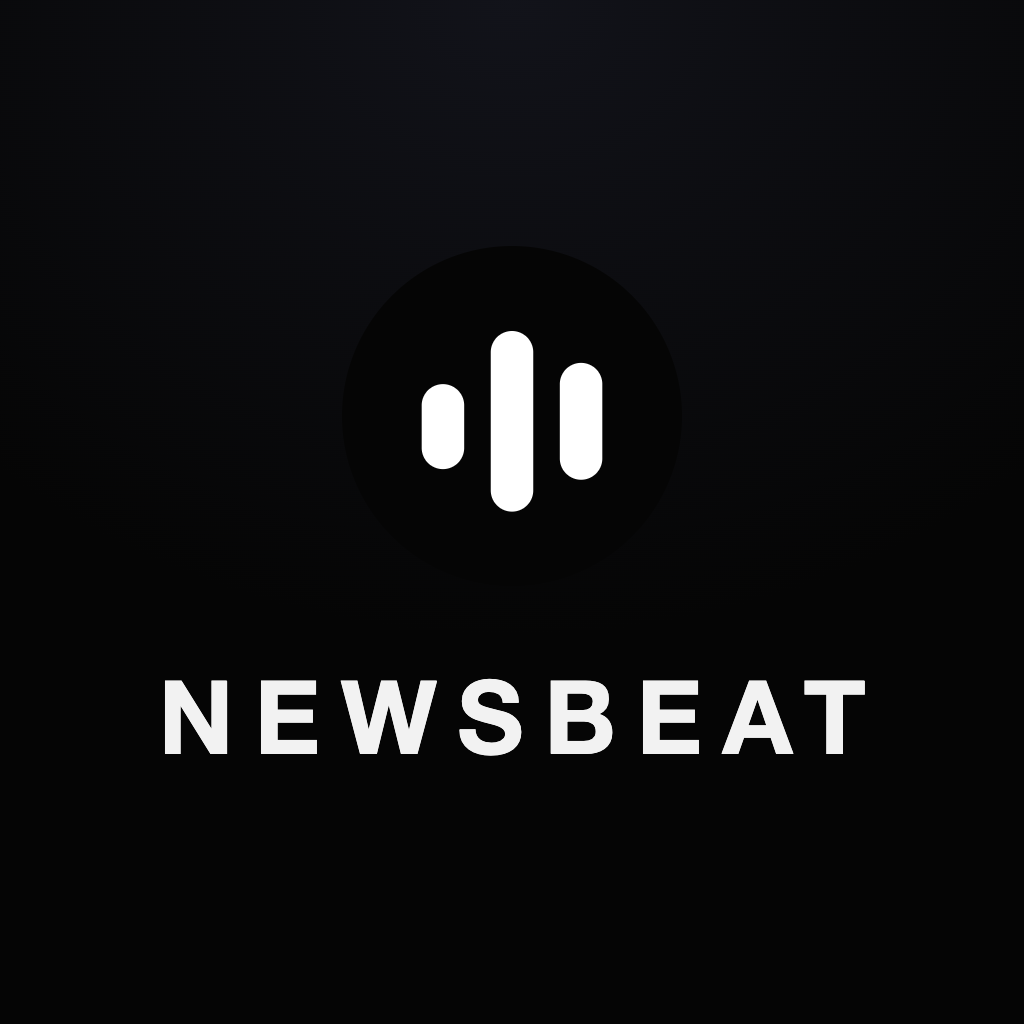
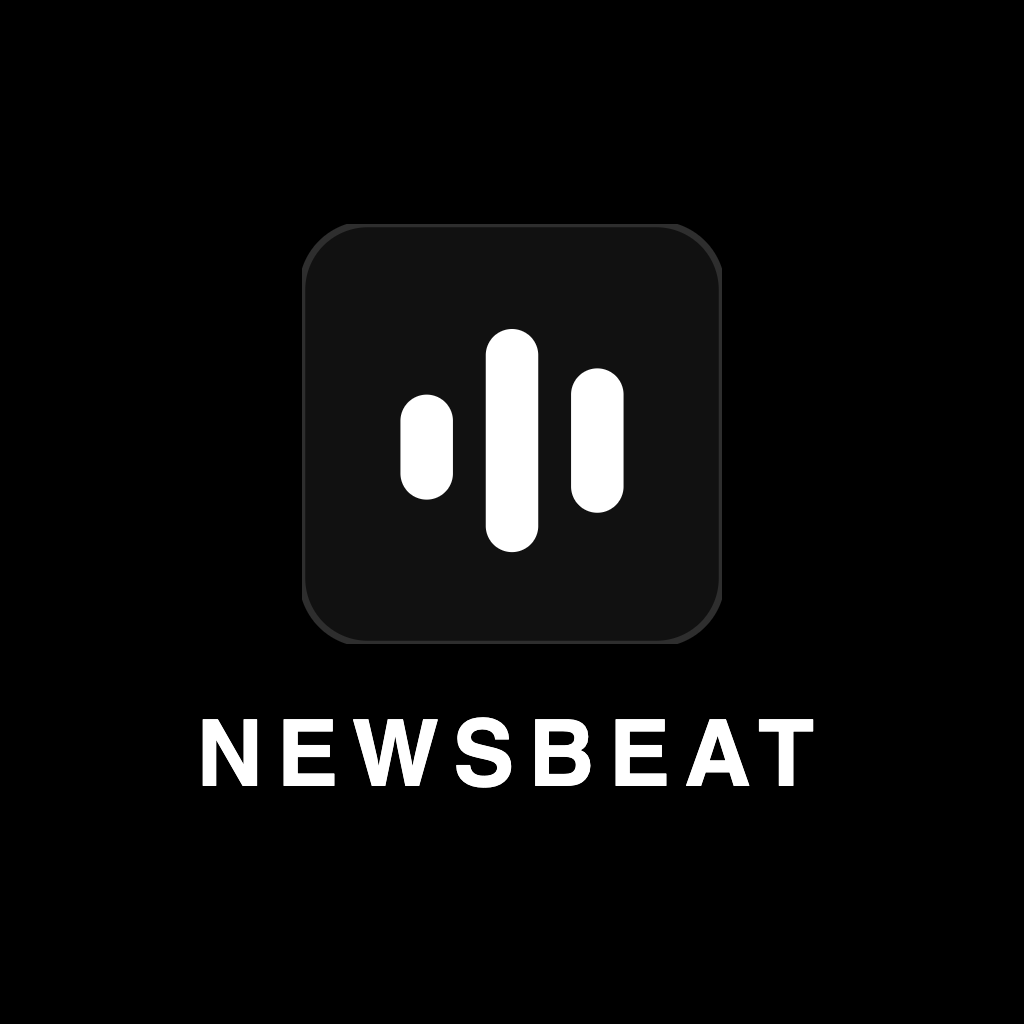
brand: the beat mark, not the sheep
Restores the original NewsBeat logo — three bars in a rounded tile, a beat read as an
equalizer — and removes the mascot from every surface it had spread to.

Recovered from git (b51172a) rather than redrawn, so the geometry is the one that shipped
before the rename: rect 15/28/41 wide, heights 16/34/22, radius 4, on a 64-unit tile.

Changed:
- brand-mark.tsx, which the nav, the crypto research core, the OG image, the apple icon and
  the token badge all import — one file, six surfaces.
- icon.svg, apple-icon.png and public/newsbeat.svg, all the same geometry.
- brand/*.png regenerated: mark, lockup, OG and square, rendered from the same SVG.

Removed with it: the mascot's nod animation, which rotated around 52%/75% for a face and
looked broken on a tile, and two 'black sheep' labels in the live board that the earlier
prose pass missed because they were lowercase.

diff --git a/apps/web/components/site/brand-mark.tsx b/apps/web/components/site/brand-mark.tsx
@@ -1,30 +1,37 @@
-/** Original vector mascot: black wool, a raised eyebrow and a knowing smile. */
-export default function BrandMark({ className, size = 64, variant = "portrait" }: { className?: string; size?: number; variant?: "portrait" | "mascot" }) {
-  const full = variant === "mascot";
+/**
+ * The NewsBeat mark: three bars in a rounded tile — a beat, read as an equalizer.
+ *
+ * This is the original mark, restored. It replaced a sheep mascot during a rename that
+ * was reverted, and the mascot-free version is better on every surface: it is legible at
+ * 16px in a browser tab, it does not need a light or dark variant because the tile
+ * supplies its own contrast, and it reads as a beat rather than as a character.
+ *
+ * Flat fills only, no strokes, so it renders identically at 16px and at 1024px.
+ */
+export default function BrandMark({
+  className,
+  size = 64,
+}: {
+  className?: string;
+  size?: number;
+  /** Accepted for callers that still pass it; the mark has a single form now. */
+  variant?: "portrait" | "mascot";
+}) {
   return (
-    <svg className={className} width={size} height={full ? size * 460 / 320 : size} viewBox={full ? "0 0 320 460" : "0 0 320 280"} fill="none" aria-hidden="true" focusable="false">
-      {full ? (<g stroke="#f3f2ec" strokeWidth="5" strokeLinejoin="round">
-  <path d="m107 373-7 55-25 9c-8 3-7 13 2 13h61l2-74m46-1 2 74h60c10 0 10-10 2-13l-26-9-9-53" fill="#151714" />
-  <path d="M80 247c-23 0-38 24-28 44-22 13-22 45 1 57-9 25 8 49 33 49 9 27 39 36 59 19 19 24 49 19 61-4 27 10 52-9 51-35 27-5 38-34 21-55 16-22 3-51-23-56-6-25-30-40-53-29Z" fill="#101210" />
-  <path d="M91 340q-6 18 7 28m119-24q10 18-4 31m-69 3q13 11 25 1" fill="none" stroke="#343832" strokeWidth="6" strokeLinecap="round" />
-</g>) : null}
-      <g stroke="#f3f2ec" strokeWidth="5" strokeLinejoin="round" strokeLinecap="round">
-  <path d="M83 114C55 107 23 134 16 164c-6 25 18 34 40 23l35-29" fill="#111312" />
-  <path d="M238 111c30-1 59 24 66 52 7 26-14 37-37 25l-35-29" fill="#111312" />
-  <path d="M38 163q13-23 33-26m210 28q-12-24-29-28" fill="none" stroke="#575b56" strokeWidth="9" />
-  <path d="M91 100c-9 30-12 77 8 108 16 25 41 42 65 42 28 0 57-21 70-48 15-32 9-72-3-103Z" fill="#292c28" />
-  <path d="M64 109c-23-11-23-42 0-54 0-22 20-40 42-34 12-23 43-25 60-7 24-17 54-6 61 17 24-2 42 16 40 38 23 16 17 48-7 55-8 22-36 28-53 13-16 18-43 17-58 2-20 17-46 11-55-8-14 6-28-3-30-22Z" fill="#101210" />
-  <path d="M102 45c8-10 21-10 29-3m58 0c8-3 18 1 21 8" fill="none" stroke="#343832" strokeWidth="6" />
-</g>
-<ellipse cx="132" cy="166" rx="26" ry="30" fill="#f8f7f0" />
-<ellipse cx="193" cy="160" rx="28" ry="31" fill="#f8f7f0" />
-<ellipse cx="143" cy="165" rx="10" ry="13" fill="#111312" />
-<ellipse cx="204" cy="159" rx="10" ry="13" fill="#111312" />
-<circle cx="146" cy="161" r="3" fill="#f8f7f0" />
-<circle cx="207" cy="155" r="3" fill="#f8f7f0" />
-<path d="M108 143q23-9 46 3" fill="none" stroke="#292c28" strokeWidth="10" strokeLinecap="round" />
-<path d="M177 119q17-9 31-1" fill="none" stroke="#f3f2ec" strokeWidth="5" strokeLinecap="round" />
-<path d="M145 211q23 19 48-8m-3 0 10-1" fill="none" stroke="#f3f2ec" strokeWidth="5" strokeLinecap="round" />
+    <svg
+      className={className}
+      width={size}
+      height={size}
+      viewBox="0 0 64 64"
+      aria-hidden="true"
+      focusable="false"
+    >
+      <rect width="64" height="64" rx="10" fill="#000000" />
+      <g fill="#ffffff">
+        <rect x="15" y="26" width="8" height="16" rx="4" />
+        <rect x="28" y="16" width="8" height="34" rx="4" />
+        <rect x="41" y="22" width="8" height="22" rx="4" />
+      </g>
     </svg>
   );
 }

diff --git a/apps/web/app/(site)/crypto-community.css b/apps/web/app/(site)/crypto-community.css
@@ -17,7 +17,7 @@
 .bs-crypto-rings::before { content: ""; position: absolute; inset: 16%; border: 1px dashed color-mix(in srgb, var(--text-primary) 20%, transparent); border-radius: 50%; animation: sheepOrbit 90s linear infinite; }
 .bs-crypto-rings::after { content: ""; position: absolute; top: 14%; right: 13%; width: 9px; height: 9px; border: 2px solid var(--text-primary); border-radius: 50%; background: var(--bg-base); box-shadow: 0 0 0 7px color-mix(in srgb, var(--text-primary) 8%, transparent); }
 .bs-crypto-core { z-index: 1; display: flex; flex-direction: column; align-items: center; justify-content: center; width: 244px; aspect-ratio: 1; border: 1px solid var(--border-strong); border-radius: 50%; background: var(--bg-base); box-shadow: 0 15px 60px rgba(0,0,0,.28), 0 0 0 11px color-mix(in srgb, var(--text-primary) 5%, transparent); }
-.bs-crypto-core svg { width: 132px; height: 116px; animation: sheepNod 8s ease-in-out infinite; }
+.bs-crypto-core svg { width: 104px; height: 104px; }
 .bs-crypto-core strong { margin-top: 8px; font: 600 25px/1 var(--font-mono); letter-spacing: -.03em; }
 .bs-crypto-core>span { margin-top: 9px; font: 12px/1.4 var(--font-mono); letter-spacing: .08em; color: var(--text-secondary); }
 [data-theme="light"] .bs-crypto-core { background: #111; color: #f3f2ec; }

diff --git a/apps/web/app/(site)/newsbeat-brand.css b/apps/web/app/(site)/newsbeat-brand.css
@@ -20,9 +20,5 @@ html .documentation-page .docs-link.active{border-left-color:var(--text-primary)
 .sheep-community-badge small{font-size:11px;letter-spacing:.04em}
 .sheep-community-badge.is-compact small{font-size:10px}
 
-/* Give the unchanged sheep SVG a small, occasional nod wherever it appears. */
-.nav-site .brand-beat,.sheep-community-badge>svg{transform-origin:52% 75%;animation:sheepNod 8s ease-in-out infinite}
-@keyframes sheepNod{0%,12%,27%,100%{transform:translateY(0) rotate(0)}17%{transform:translateY(-2px) rotate(-6deg)}22%{transform:translateY(1px) rotate(4deg)}}
-@keyframes sheepHello{0%,100%{transform:rotate(0)}35%{transform:rotate(-10deg)}70%{transform:rotate(6deg)}}
-@media(hover:hover){.nav-site .nav-logo:hover .brand-beat,.sheep-community-badge:hover>svg{animation:sheepHello .7s ease-in-out 1}}
+/* The mark is static; the mascot's nod no longer applies. */
 @media(prefers-reduced-motion:reduce){.nav-site .brand-beat,.sheep-community-badge>svg,.nav-site .nav-logo:hover .brand-beat,.sheep-community-badge:hover>svg{animation:none;transform:none}}

diff --git a/apps/web/components/live-news-board.tsx b/apps/web/components/live-news-board.tsx
@@ -29,7 +29,7 @@ export default function LiveNewsBoard({ stats }: { stats: Stats | null }) {
           <span className="dot" />
           <span className="dot" />
         </span>
-        <span className="title">black sheep — live terminal</span>
+        <span className="title">newsbeat — live terminal</span>
         <span className="live">streaming</span>
       </div>
 
@@ -61,7 +61,7 @@ export default function LiveNewsBoard({ stats }: { stats: Stats | null }) {
           <div className="feed-line">
             <span className="tag">awaiting</span>
             <span className="txt">Backend is paused while topic queries are rebuilt.</span>
-            <span className="src">black sheep</span>
+            <span className="src">newsbeat</span>
           </div>
         )}
         </div>
